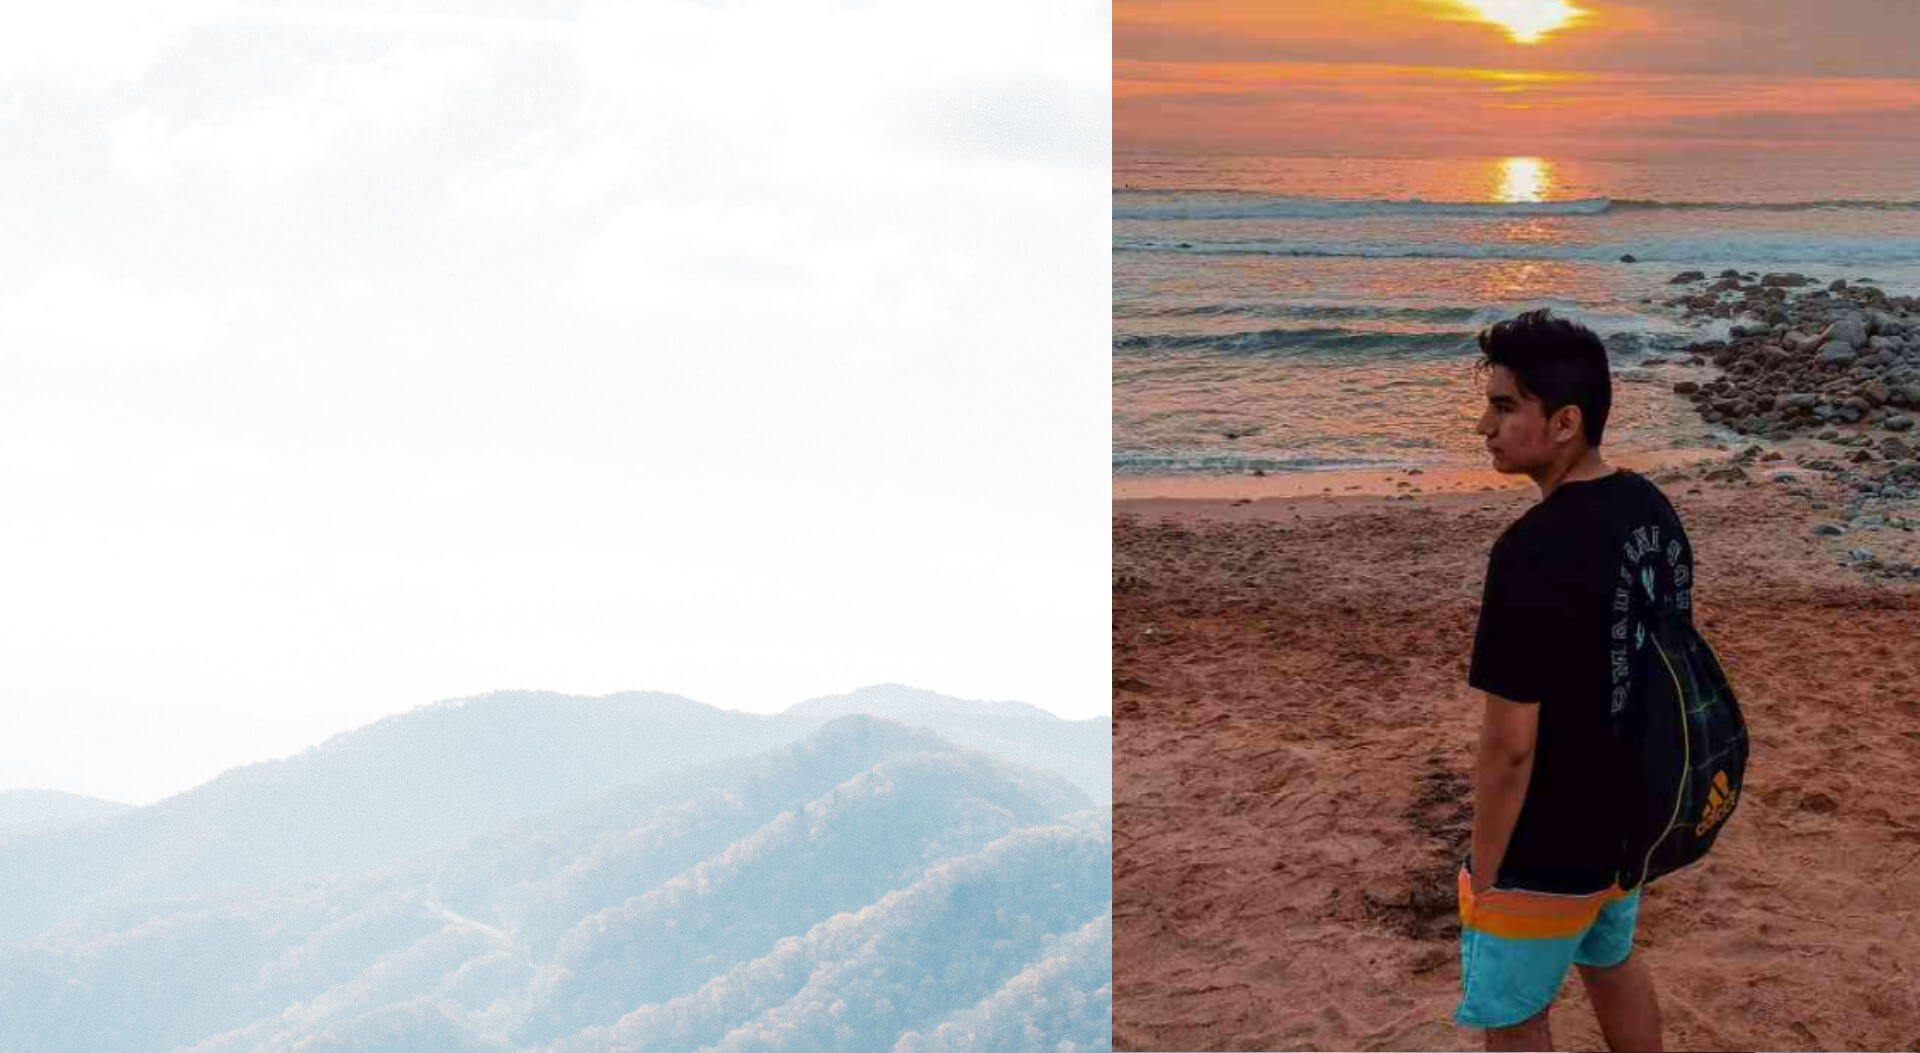
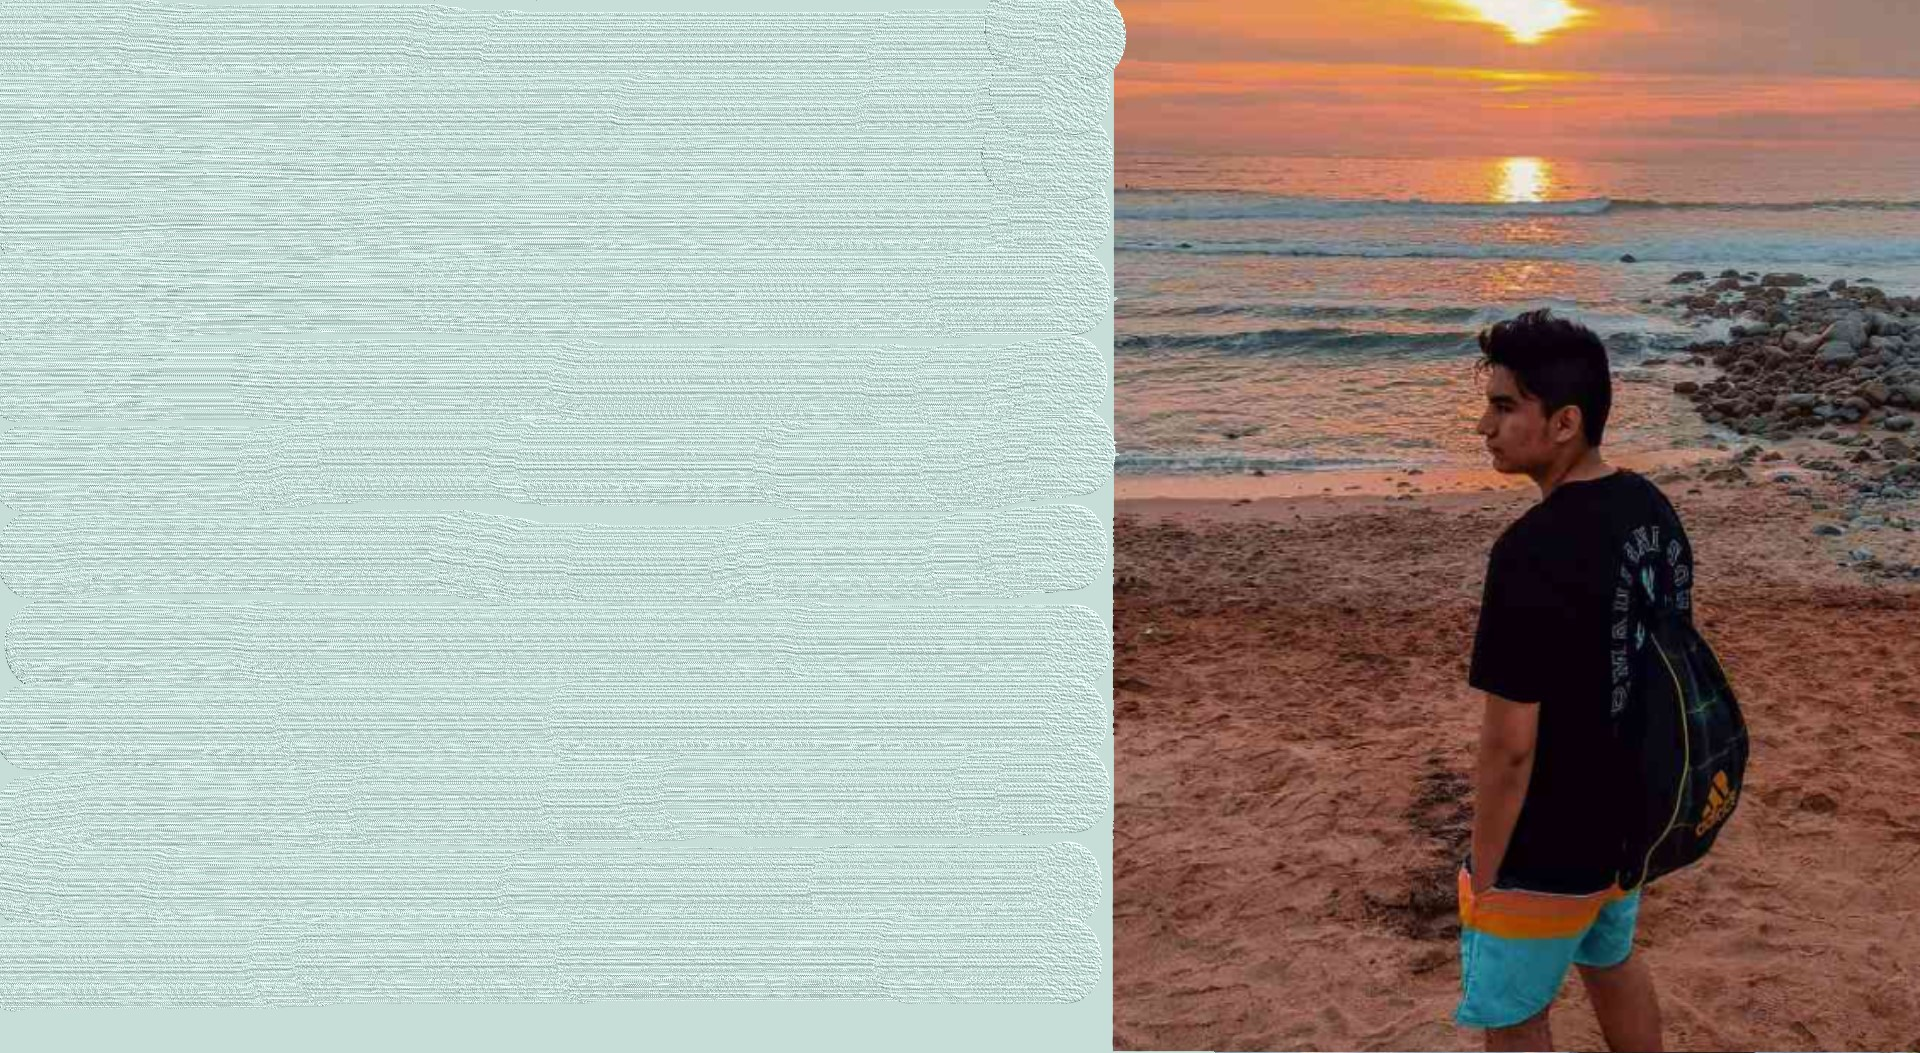
cambiando foto y colores

diff --git a/assets/css/style.css b/assets/css/style.css
@@ -274,7 +274,7 @@ h6 {
 #hero {
   width: 100%;
   height: 100vh;
-  background: url("../img/yo.png") top right no-repeat;
+  background: url("../img/hero-bg.jpg") top right no-repeat;
   background-size: cover;
   position: relative;
 }
